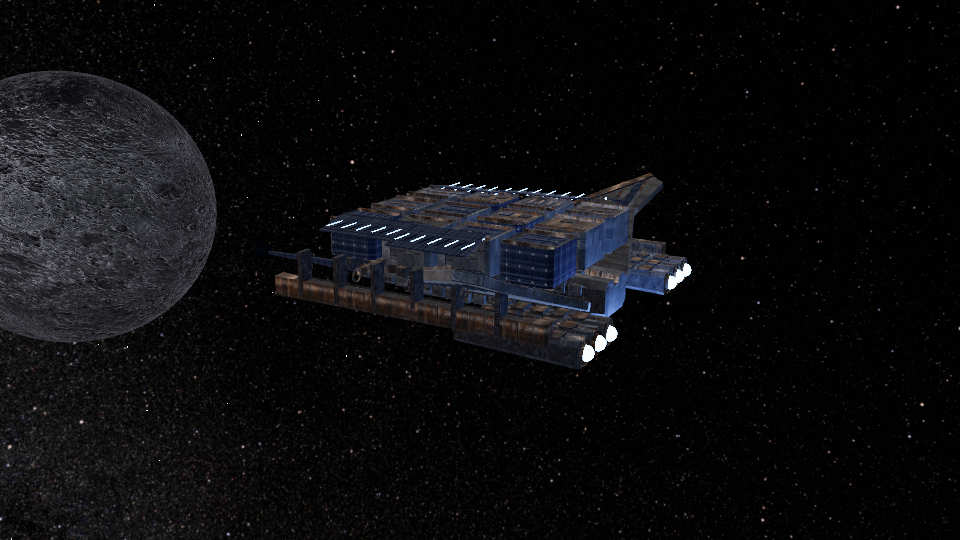
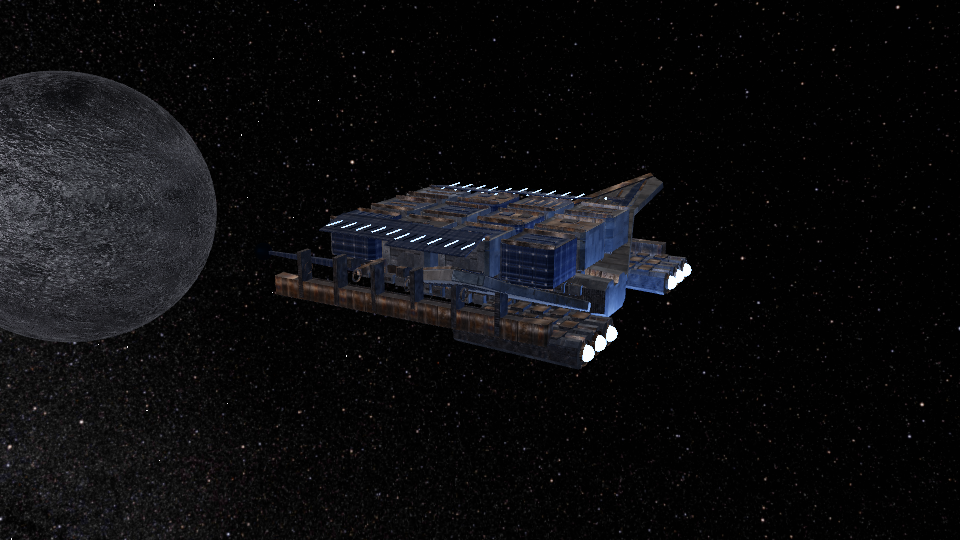
Make selected moon effects visible in TiXL

Changed region(s): [[0.0, 0.1778, 0.1875, 0.563], [0.125, 0.3259, 0.1875, 0.3852], [0.0938, 0.2074, 0.125, 0.2667]]

diff --git a/examples/configure_asterion_planet_effects.py b/examples/configure_asterion_planet_effects.py
@@ -14,6 +14,8 @@ from pathlib import Path
 
 
 MOON = "Tethys analogue | cratered moon"
+MESH_AMOUNT = 2.6
+IMAGE_DISPLACEMENT = 0.24
 NAMES = {
     "object": "Main / opaque select object",
     "mesh_select": "Main / opaque select mesh",
@@ -48,7 +50,22 @@ def configure(path: Path) -> None:
     mesh_name = "Moon | displace mesh noise"
     image_name = "Moon | displace albedo image"
     if mesh_name in children or image_name in children:
-        raise ValueError("Planet effects are already installed; preserve user edits")
+        if mesh_name not in children or image_name not in children:
+            raise ValueError("Only one planet effect is installed; preserve user edits")
+        settings = (
+            (children[mesh_name], "b7559321-2dbe-4fe0-ab86-52532d008980", 0.55, MESH_AMOUNT),
+            (children[image_name], "0f2867ab-a65e-4bf3-b1b5-9c241690ba5f", 0.018, IMAGE_DISPLACEMENT),
+        )
+        for child, slot, previous, current in settings:
+            values = [item for item in child["InputValues"] if item["Id"] == slot]
+            if len(values) != 1 or values[0]["Value"] not in (previous, current):
+                raise ValueError(f"{child['Name']} has user-edited settings")
+        for child, slot, _, current in settings:
+            next(item for item in child["InputValues"] if item["Id"] == slot)["Value"] = current
+        name_values[0]["Value"] = MOON
+        path.write_text(json.dumps(graph, indent=2)+"\n", encoding="utf-8")
+        print("ASTERION_PLANET_EFFECTS_TUNED " + MOON)
+        return
     mesh_id = str(uuid.uuid5(uuid.NAMESPACE_URL, graph["Id"] + "/moon-mesh-noise"))
     image_id = str(uuid.uuid5(uuid.NAMESPACE_URL, graph["Id"] + "/moon-image-displace"))
     mesh_direct = edge(chosen["mesh_select"]["Id"],
@@ -66,7 +83,7 @@ def configure(path: Path) -> None:
         {"Id": mesh_id, "SymbolId": "b5709297-c714-4019-9d0b-6982590b5590",
          "SymbolName": "Lib.mesh.modify.DisplaceMeshNoise", "Name": mesh_name,
          "InputValues": [
-             {"Id": "b7559321-2dbe-4fe0-ab86-52532d008980", "Type": "System.Single", "Value": 0.55},
+            {"Id": "b7559321-2dbe-4fe0-ab86-52532d008980", "Type": "System.Single", "Value": MESH_AMOUNT},
              {"Id": "4b1a66a4-b5e4-4bc3-97f5-bd3cda668893", "Type": "System.Single", "Value": 2.2},
              {"Id": "83cb775f-c600-41c9-9435-604f77a426bd", "Type": "System.Boolean", "Value": False},
              {"Id": "f108f6f7-5e6f-43c8-9d0b-c2e7bf5adf9c", "Type": "System.Int32", "Value": 1},
@@ -74,7 +91,7 @@ def configure(path: Path) -> None:
         {"Id": image_id, "SymbolId": "1b149f1f-529c-4418-ac9d-3871f24a9e38",
          "SymbolName": "Lib.image.fx.distort.Displace", "Name": image_name,
          "InputValues": [
-             {"Id": "0f2867ab-a65e-4bf3-b1b5-9c241690ba5f", "Type": "System.Single", "Value": 0.018},
+            {"Id": "0f2867ab-a65e-4bf3-b1b5-9c241690ba5f", "Type": "System.Single", "Value": IMAGE_DISPLACEMENT},
              {"Id": "6a5c120f-7c04-439b-ad2d-6f78ceb3b378", "Type": "System.Int32", "Value": 2},
          ], "Outputs": []},
     ])

diff --git a/examples/advanced_spaceship/README.md b/examples/advanced_spaceship/README.md
@@ -44,13 +44,13 @@ The role silhouettes draw on [Starbound's official visual gallery](https://plays
 
 With the saved scene open through Blender MCP TCP, sync it using the bridge workflow and the configured TiXL operator project. In TiXL, inspect the generated world graph and texture routes, then evaluate and capture renders at the COMBAT, breakup, EXPLORER, HAULER, and final assembly markers. Confirm the rendered output as well as graph connections. Existing TiXL projects can retain their editable 60-second TimeClips across syncs. After closing TiXL through its debug bridge, run `../retime_advanced_space_demo_clips.py` on that project's `Symbols/AsterionBreakaway.t3` and restart TiXL through the bridge. The retimer changes only the seven known source clips and refuses to overwrite unexpected timing.
 
-The current reference run synced successfully to TiXL 4.3.0.2. Its generated cache contains 500 animated reusable craft parts, with no visibility-switch channels. The single 108-second camera rail has 6,480 samples; its largest adjacent-frame move is 0.248 m and its largest forward-direction turn is 0.0061 rad. The generated graph has 29 children and 52 connections, with no missing child or connection references. The 16K panorama remains embedded in the glTF scene. The generated cache contains about 294 MB of data. TiXL renders show each ship at the start and opposite side of its complete orbit: [combat](previews/tixl_combat.png) / [opposite](previews/tixl_combat_opposite.png), [explorer](previews/tixl_explorer.png) / [opposite](previews/tixl_explorer_opposite.png), and [hauler](previews/tixl_hauler.png) / [opposite](previews/tixl_hauler_opposite.png) / [orbit end](previews/tixl_hauler_end.png). The [first snap](previews/tixl_bullet_snap.png), [first suspended drift](previews/tixl_bullet_drift.png), [second suspended drift](previews/tixl_bullet_hauler.png), [return drift](previews/tixl_bullet_return.png), and [final combat](previews/tixl_final.png) verify the full 108-second sequence. Matching Blender views show the [combat](previews/combat_blender.png), [explorer](previews/explorer_blender.png), [hauler](previews/hauler_blender.png), and their [opposite](previews/combat_opposite_blender.png), [opposite](previews/explorer_opposite_blender.png), and [opposite](previews/hauler_opposite_blender.png) sides.
+The current reference run synced successfully to TiXL 4.3.0.2. Its generated cache contains 500 animated reusable craft parts, with no visibility-switch channels. The single 108-second camera rail has 6,480 samples; its largest adjacent-frame move is 0.248 m and its largest forward-direction turn is 0.0061 rad. The editable home graph has 32 children and 60 connections, with no missing child or connection references. The 16K panorama remains embedded in the glTF scene. The generated cache contains about 294 MB of data. TiXL renders show each ship at the start and opposite side of its complete orbit: [combat](previews/tixl_combat.png) / [opposite](previews/tixl_combat_opposite.png), [explorer](previews/tixl_explorer.png) / [opposite](previews/tixl_explorer_opposite.png), and [hauler](previews/tixl_hauler.png) / [opposite](previews/tixl_hauler_opposite.png) / [orbit end](previews/tixl_hauler_end.png). The [first snap](previews/tixl_bullet_snap.png), [first suspended drift](previews/tixl_bullet_drift.png), [second suspended drift](previews/tixl_bullet_hauler.png), [return drift](previews/tixl_bullet_return.png), and [final combat](previews/tixl_final.png) verify the full 108-second sequence. Matching Blender views show the [combat](previews/combat_blender.png), [explorer](previews/explorer_blender.png), [hauler](previews/hauler_blender.png), and their [opposite](previews/combat_opposite_blender.png), [opposite](previews/explorer_opposite_blender.png), and [opposite](previews/hauler_opposite_blender.png) sides.
 
 The earlier bounded playback sample in [playback_metrics.json](playback_metrics.json) predates this camera revision. The current output captures above verify the new camera views and breakup staging. TiXL's output-evaluation counters do not establish continuous scene-rendering performance; use workload-specific profiling for that question.
 
 ## Selected moon effects in TiXL
 
-The editable graph's **Main / opaque select object** node now resolves `Tethys analogue | cratered moon` by name and sends its primitive index to both the mesh and texture paths. **DisplaceMeshNoise** deforms that mesh; **Displace** uses the moon's normal map to distort its albedo. The remaining scene passes through the same animated render path. The [original TiXL frame](previews/tixl_planet_before.png) and [effect frame](previews/tixl_planet_after.png) were captured at 84 seconds. Their image difference is concentrated on the moon; the ship is visually unchanged. The reusable setup is in [`../configure_asterion_planet_effects.py`](../configure_asterion_planet_effects.py), which checks the existing connections before editing the saved TiXL home graph.
+The editable graph's **Main / opaque select object** node resolves `Tethys analogue | cratered moon` by name and sends its primitive index to both the mesh and texture paths. **DisplaceMeshNoise** deforms that mesh; **Displace** uses the moon's normal map to distort its albedo. The moon is in view around 84 seconds, while the opening shot shows only the ship. The [original TiXL frame](previews/tixl_planet_before.png) and [effect frame](previews/tixl_planet_after.png) were captured at 84 seconds. Both effects now read clearly at the moon's 34 m diameter: mesh amount 2.6 and image displacement 0.24. A temporary bypass check confirmed each effect changes the moon independently; the ship remained unchanged. The reusable setup is in [`../configure_asterion_planet_effects.py`](../configure_asterion_planet_effects.py), which checks existing settings before editing the saved TiXL home graph.
 
 ## Current limitations
 
